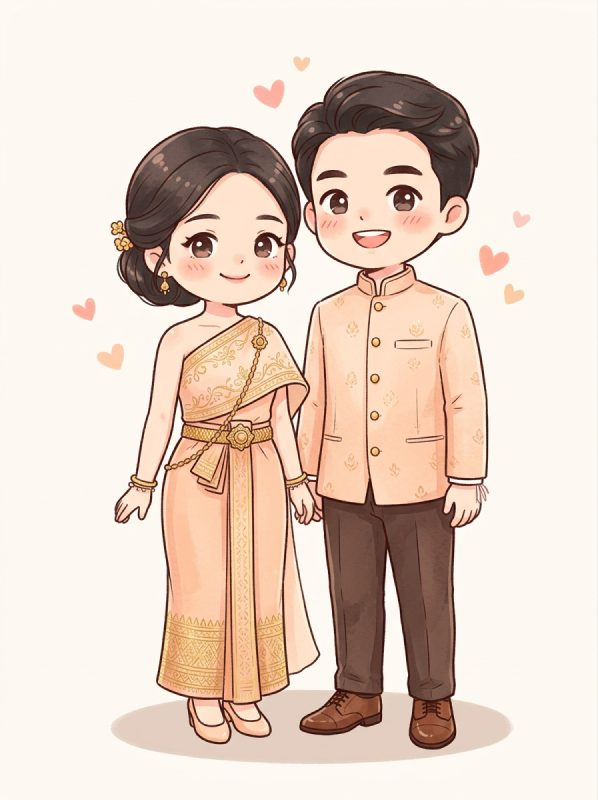
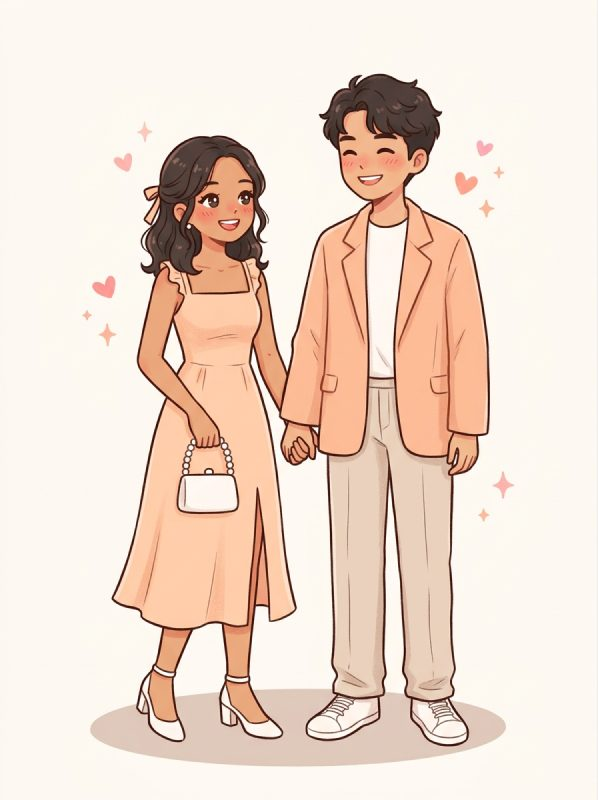
Generated apology cartoon and two more modern looks
- Footer picture is now the bride and groom doing a wai to say sorry
- Rose pink and peach each get a new modern outfit pair (3 looks per colour)

Claude-Session: https://claude.ai/code/session_017eVNXPk7p5hVmngT8q2Qgj

diff --git a/index.html b/index.html
@@ -664,7 +664,7 @@ button.slot:focus-visible{outline:2px solid var(--rose-deep);outline-offset:3px}
   <footer class="foot">
     <div class="sorry">
       <div class="sorry-pic">
-        <img src="sorry.jpg" width="260" height="260" alt="การ์ตูนเจ้าบ่าวเจ้าสาวยกมือไหว้ขอโทษ" loading="lazy">
+        <img src="sorry.jpg?v=2" width="300" height="300" alt="การ์ตูนเจ้าบ่าวเจ้าสาวยกมือไหว้ขอโทษ" loading="lazy">
         <span class="bubble" aria-hidden="true">ขอโทษน้า</span>
       </div>
       <div class="sorry-txt">
@@ -947,9 +947,11 @@ tick();
       {src:'looks/pink-3.jpg', her:'เดรสแขนตุ๊กตา กระโปรงบาน', him:'เสื้อกั๊ก + โบว์ไท'}],
     'ชมพูกุหลาบ': [
       {src:'looks/rose-1.jpg', her:'เดรสเปิดไหล่ระบาย', him:'สูทสลิม + ดอกไม้ติดอก'},
+      {src:'looks/rose-2.jpg', her:'เดรสไหล่เดียวจับพลีท', him:'เบลเซอร์กระดุมสองแถว + เสื้อนิตคอกลม'},
       {src:'looks/rose-3.jpg', her:'จั๊มสูทขากว้าง', him:'เชิ้ตลินินพับแขน + ชิโน่'}],
     'พีช': [
       {src:'looks/peach-1.jpg', her:'ชุดราตรีผ้าทูลล์ปักดอกไม้', him:'เสื้อกั๊ก + โบว์ไท'},
+      {src:'looks/peach-2.jpg', her:'เดรสคอเหลี่ยมผ่าข้าง', him:'เบลเซอร์ลำลอง + ยืดขาว'},
       {src:'looks/peach-3.jpg', her:'เบลาส์แขนพอง + กระโปรงพลีท', him:'สูทลินินลำลอง'}]
   };
   /* warm the cache so the first tap shows instantly */
